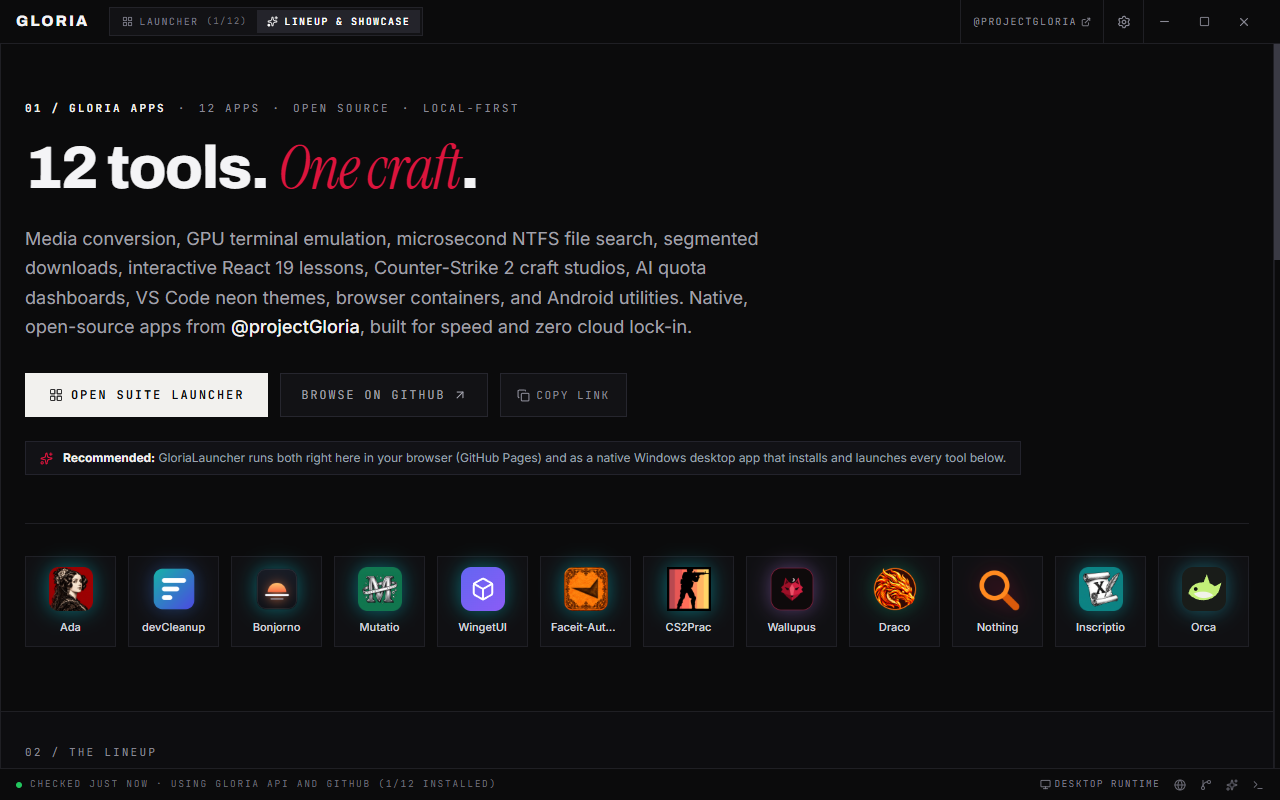
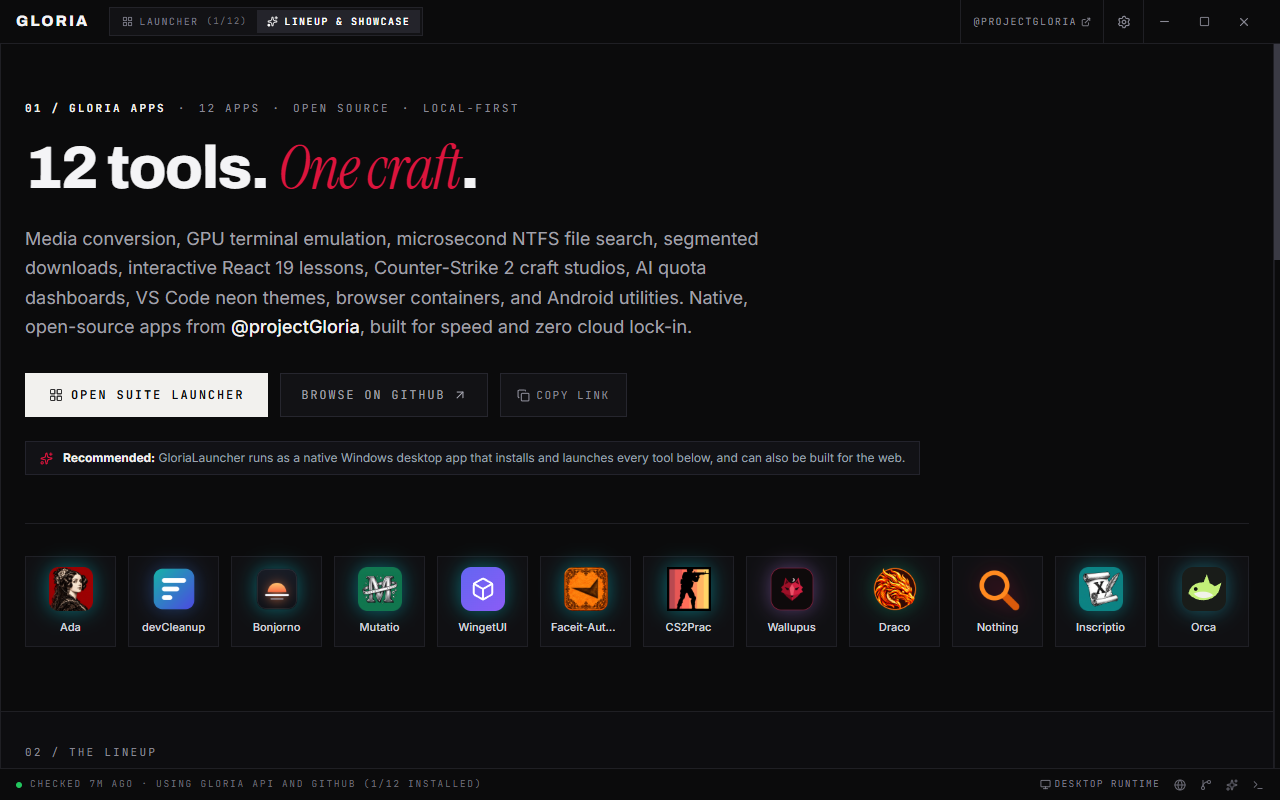
Recapture launcher-grid.png with full 5-column layout and update showcase.png

Changed region(s): [[0.2188, 0.5625, 0.7812, 0.5938], [0.1875, 0.9688, 0.375, 1.0], [0.0938, 0.9688, 0.1562, 1.0]]

diff --git a/README.md b/README.md
@@ -51,7 +51,7 @@ On Windows, the Tauri v2 + Rust backend streams release installers directly into
 
 <p align="center">
   <img src="docs/assets/launcher-grid.png" alt="GloriaLauncher Grid View showing installed apps at the top and available apps in a 5-column grid" width="880" />
-  <br /><em>Launcher Grid View: installed apps pinned at the top, followed by available @projectGloria releases with category filters, search, and sorting.</em>
+  <br /><em>Launcher Grid View: 5-column release grid with category filters, search, sorting, and one-click install actions.</em>
 </p>
 
 <p align="center">
